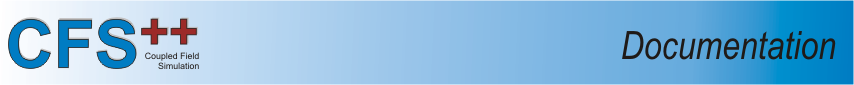
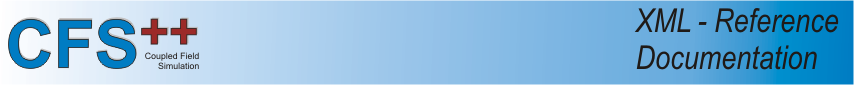
Changes to get the html-version of the xmlReference working:
- The determination if pdf-output is desired is now done using the ifpdf-package
 - Non-PNG pictures are now converted using the ImageMagick convert tool
 - Minor tweaks to the layout of the table of contents and the banner.

Changed region(s): [[0.7307, 0.0941, 1.0, 0.8235]]

diff --git a/share/doc/user/xmlFile/xmlReference.tex b/share/doc/user/xmlFile/xmlReference.tex
@@ -1,7 +1,7 @@
 \documentclass[12pt]{report}
 %
-\usepackage{graphicx}
-\graphicspath{{../../auxilliaries/Pics/}}
+\usepackage{ifpdf}
+
 %
 %
 \usepackage{../../auxilliaries/LaTeX/lsepaper}
@@ -17,22 +17,25 @@
 % PDF STUFF
 % =============================================================================
 %
-\ifx\pdfoutput\undefined
-\else
+\ifpdf
 \typeout{--> PDF: Output mode detected}
 \typeout{--> PDF: Setting general document info}
-%
+
+\usepackage{graphicx}
+\graphicspath{{../../auxilliaries/Pics/}}
 \usepackage{thumbpdf}
-%
 \usepackage[pdftex,bookmarks=true]{hyperref}
 \hypersetup{pdfpagemode=UseThumbs}
 \hypersetup{colorlinks=true}
 \hypersetup{linkcolor=red}
 \hypersetup{citecolor=blue}
-%
+
 \hypersetup{pdfauthor=cfs-devel}
 \hypersetup{pdftitle={CFS++ --- XML Reference Manual}}
 \hypersetup{pdfsubject={User's Guide}}
+\else
+\usepackage{graphicx}
+\graphicspath{{../../auxilliaries/Pics/}}
 \fi
 %
 % =============================================================================